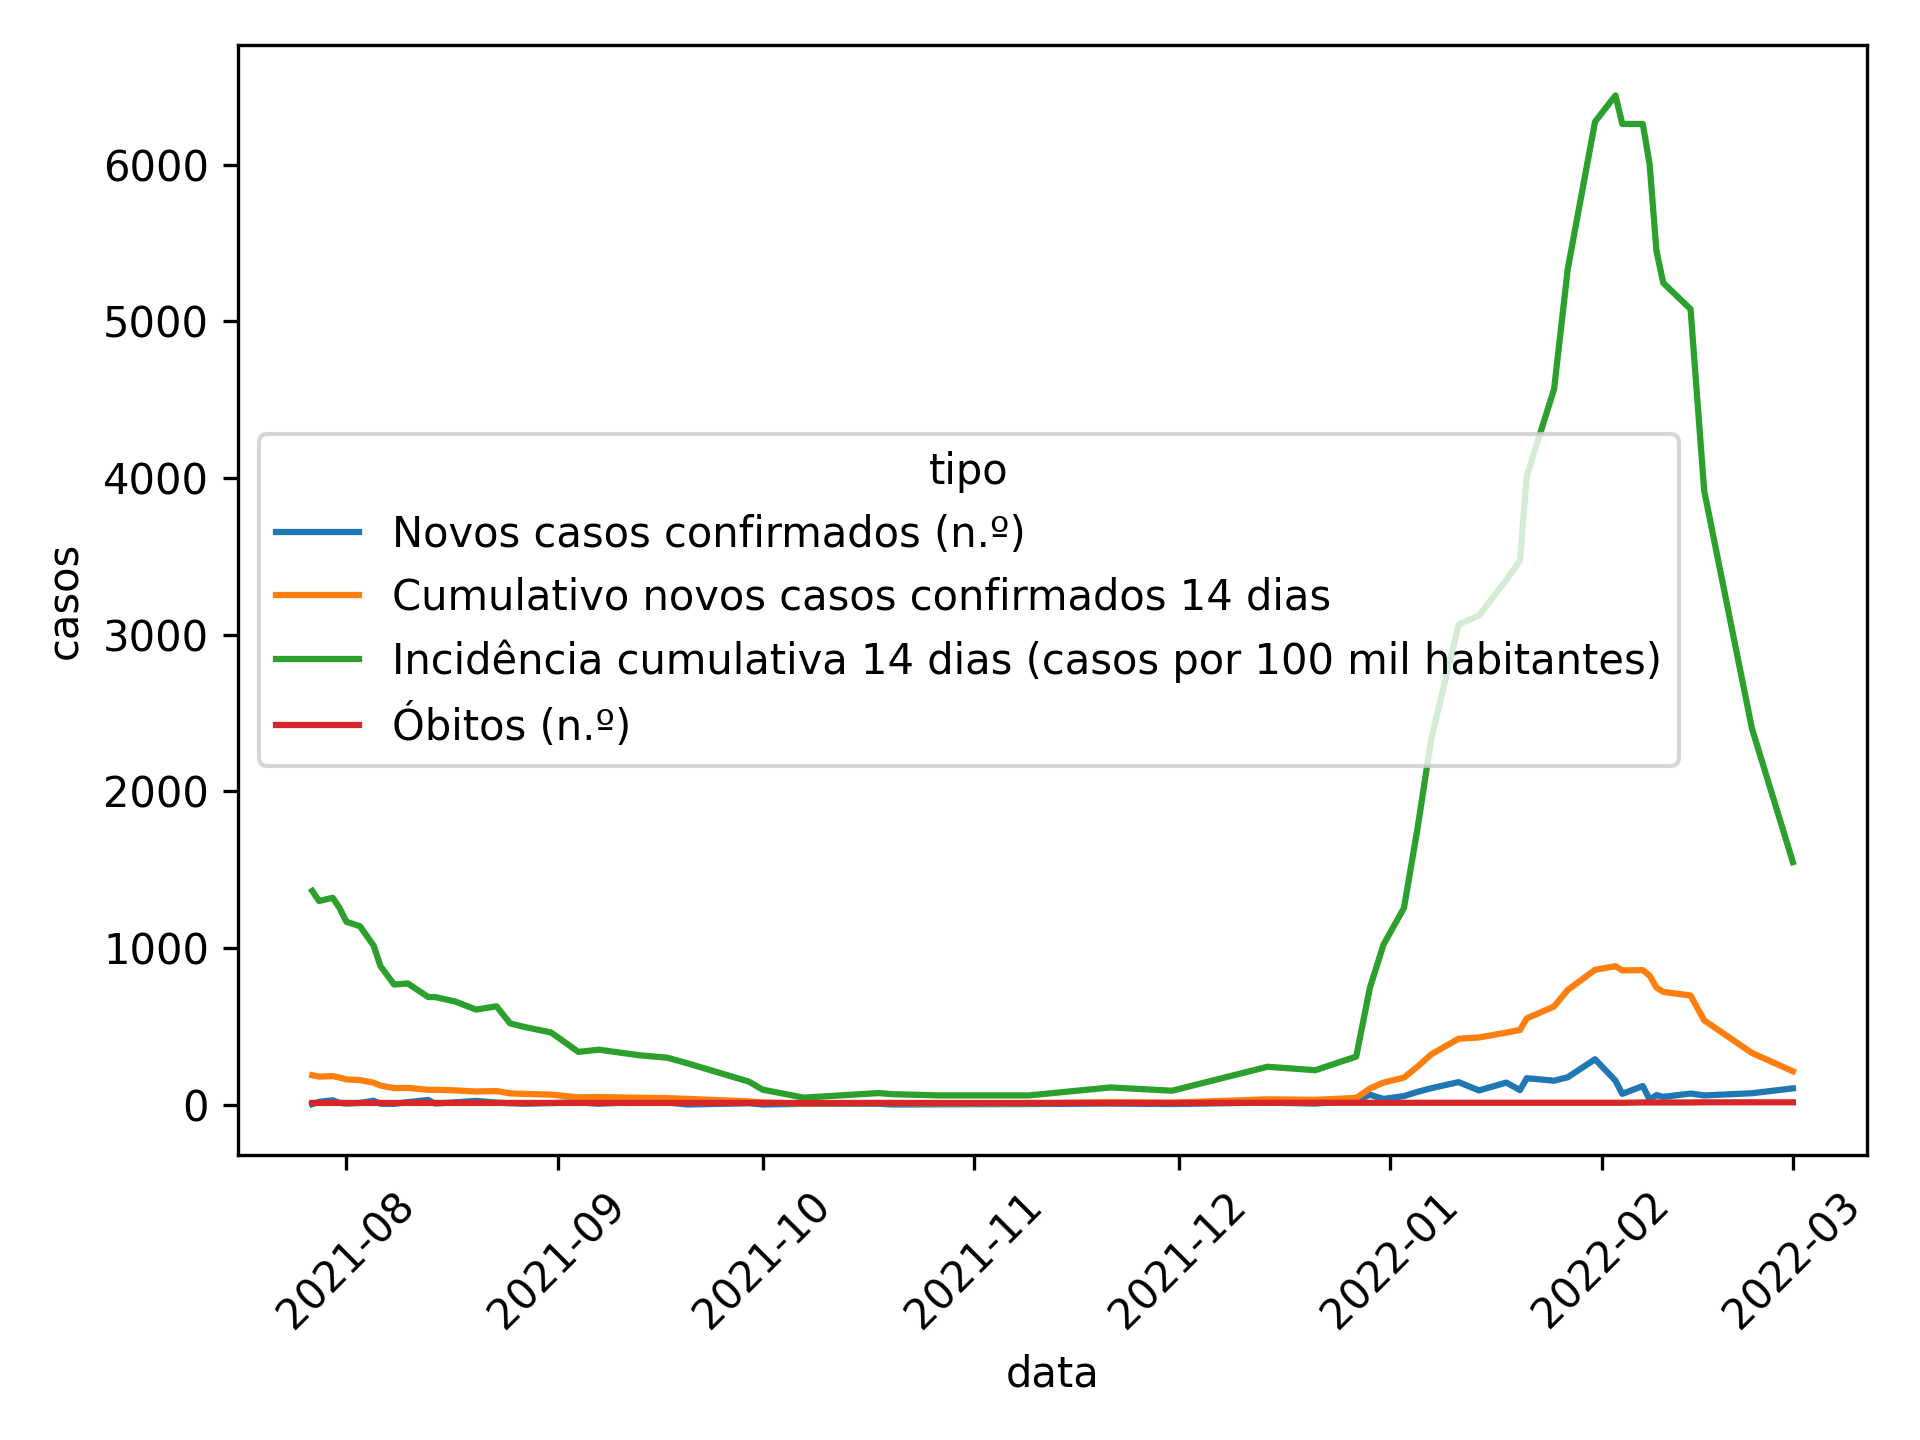
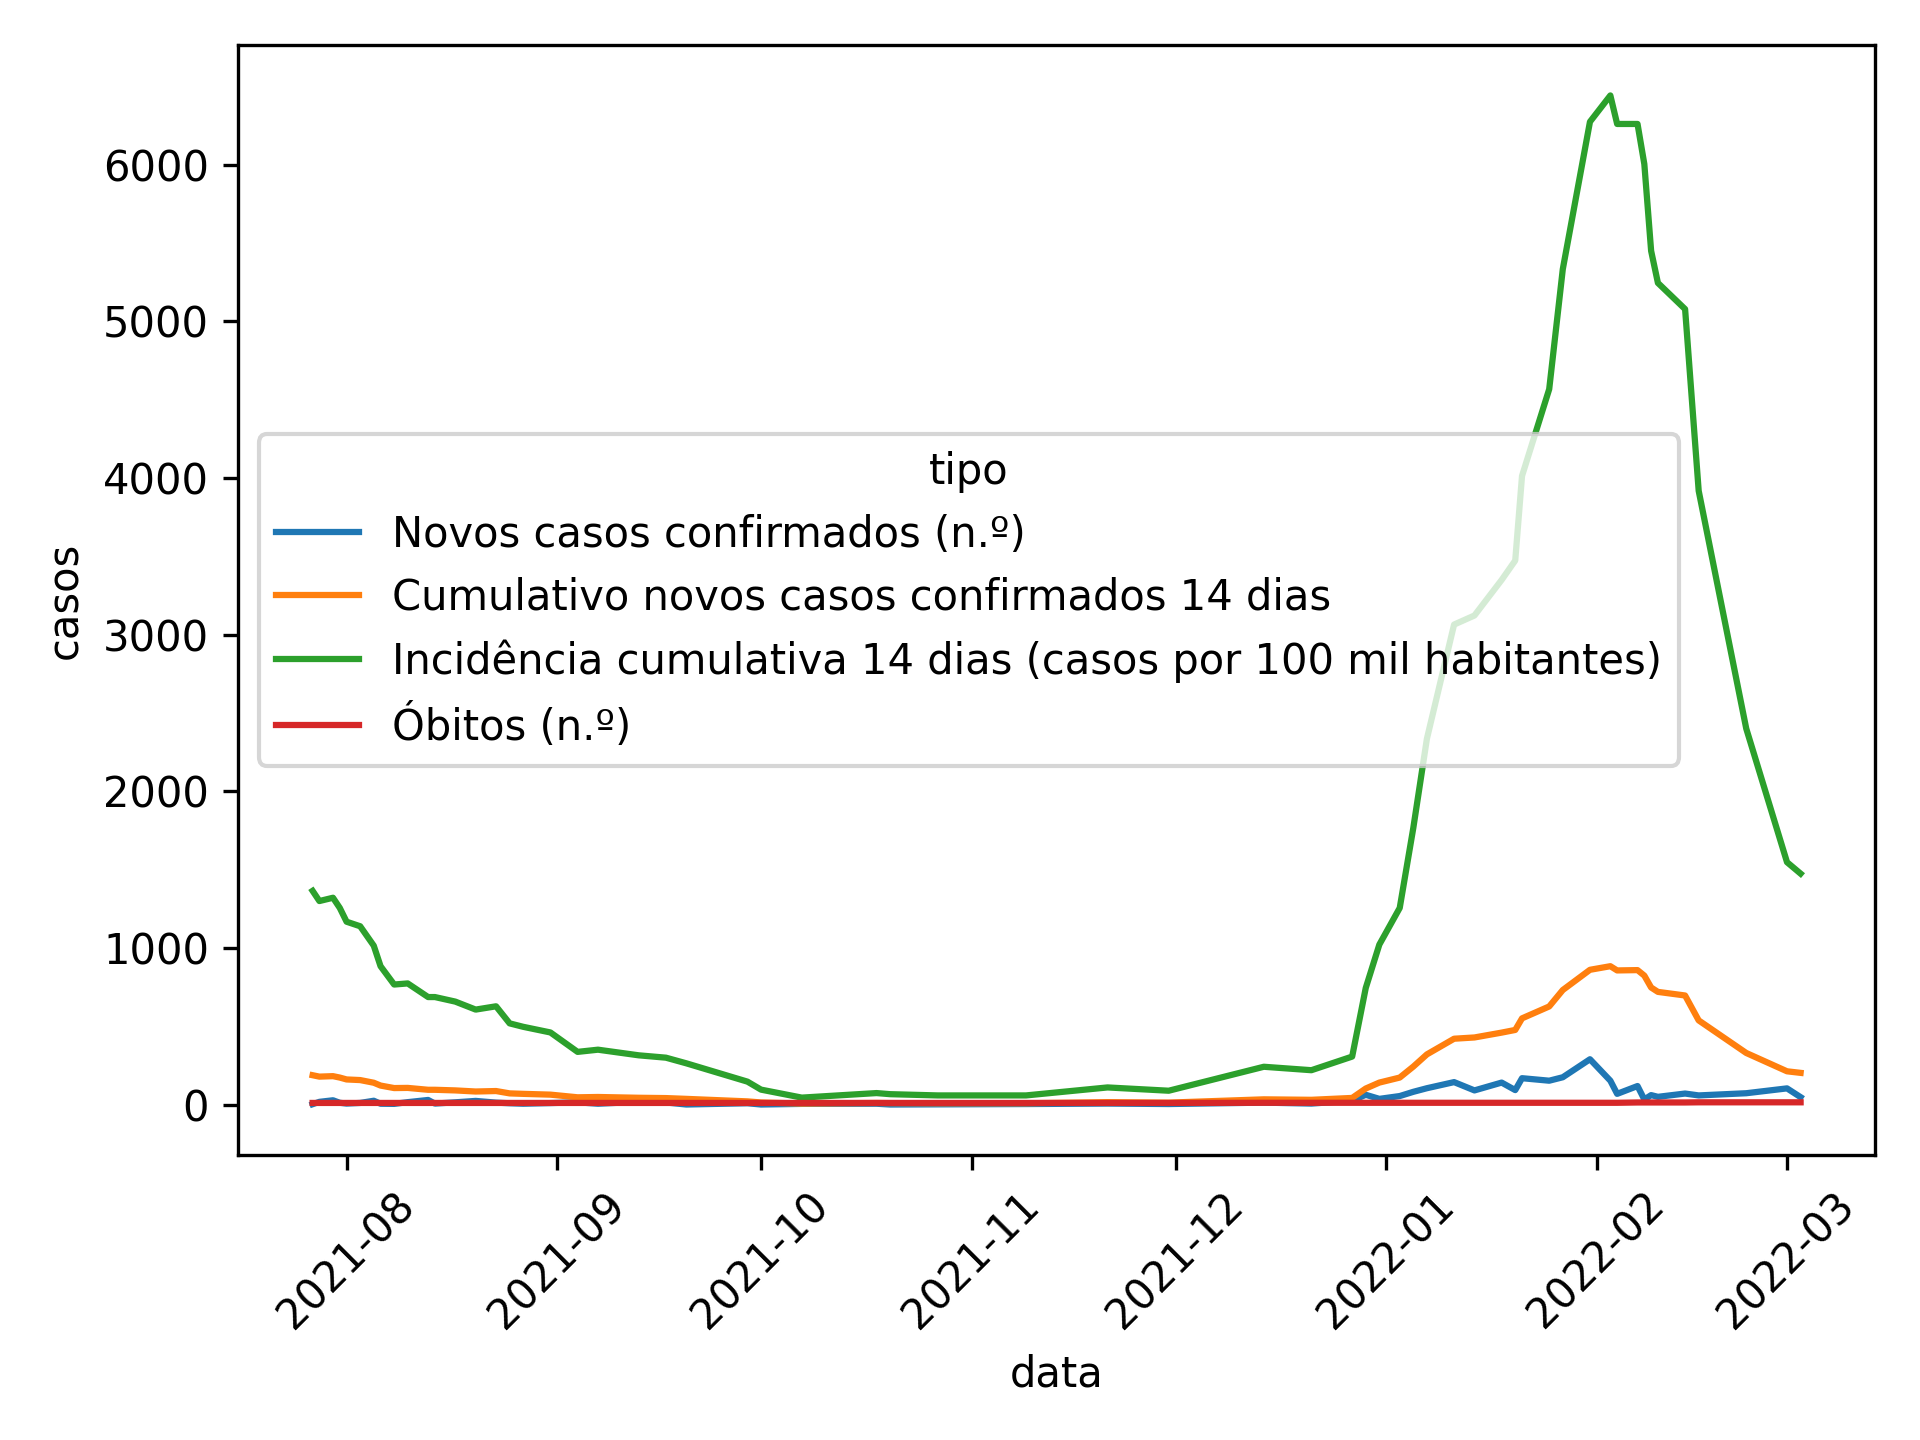
Apply automatic changes

diff --git a/README.md b/README.md
@@ -6,7 +6,6 @@
 
 | data       |   Novos casos confirmados (n.º) |   Cumulativo novos casos confirmados 14 dias |   Incidência cumulativa 14 dias (casos por 100 mil habitantes) |   Óbitos (n.º) |   Casos ativos (n.º) |   Vigilâncias ativas (n.º) |
 |:-----------|--------------------------------:|---------------------------------------------:|---------------------------------------------------------------:|---------------:|---------------------:|---------------------------:|
-| 20-01-2022 |                              92 |                                          476 |                                                           3473 |             11 |                  108 |                        nan |
 | 21-01-2022 |                             168 |                                          550 |                                                           4013 |             11 |                  nan |                        nan |
 | 25-01-2022 |                             152 |                                          626 |                                                           4567 |             11 |                  nan |                        nan |
 | 27-01-2022 |                             174 |                                          731 |                                                           5333 |             11 |                  nan |                        nan |
@@ -21,3 +20,4 @@
 | 16-02-2022 |                              58 |                                          537 |                                                           3918 |             14 |                  nan |                        nan |
 | 23-02-2022 |                              72 |                                          329 |                                                           2400 |             14 |                  nan |                        nan |
 | 01-03-2022 |                             103 |                                          212 |                                                           1547 |             14 |                  nan |                        nan |
+| 03-03-2022 |                              47 |                                          202 |                                                           1474 |             14 |                  nan |                        nan |
